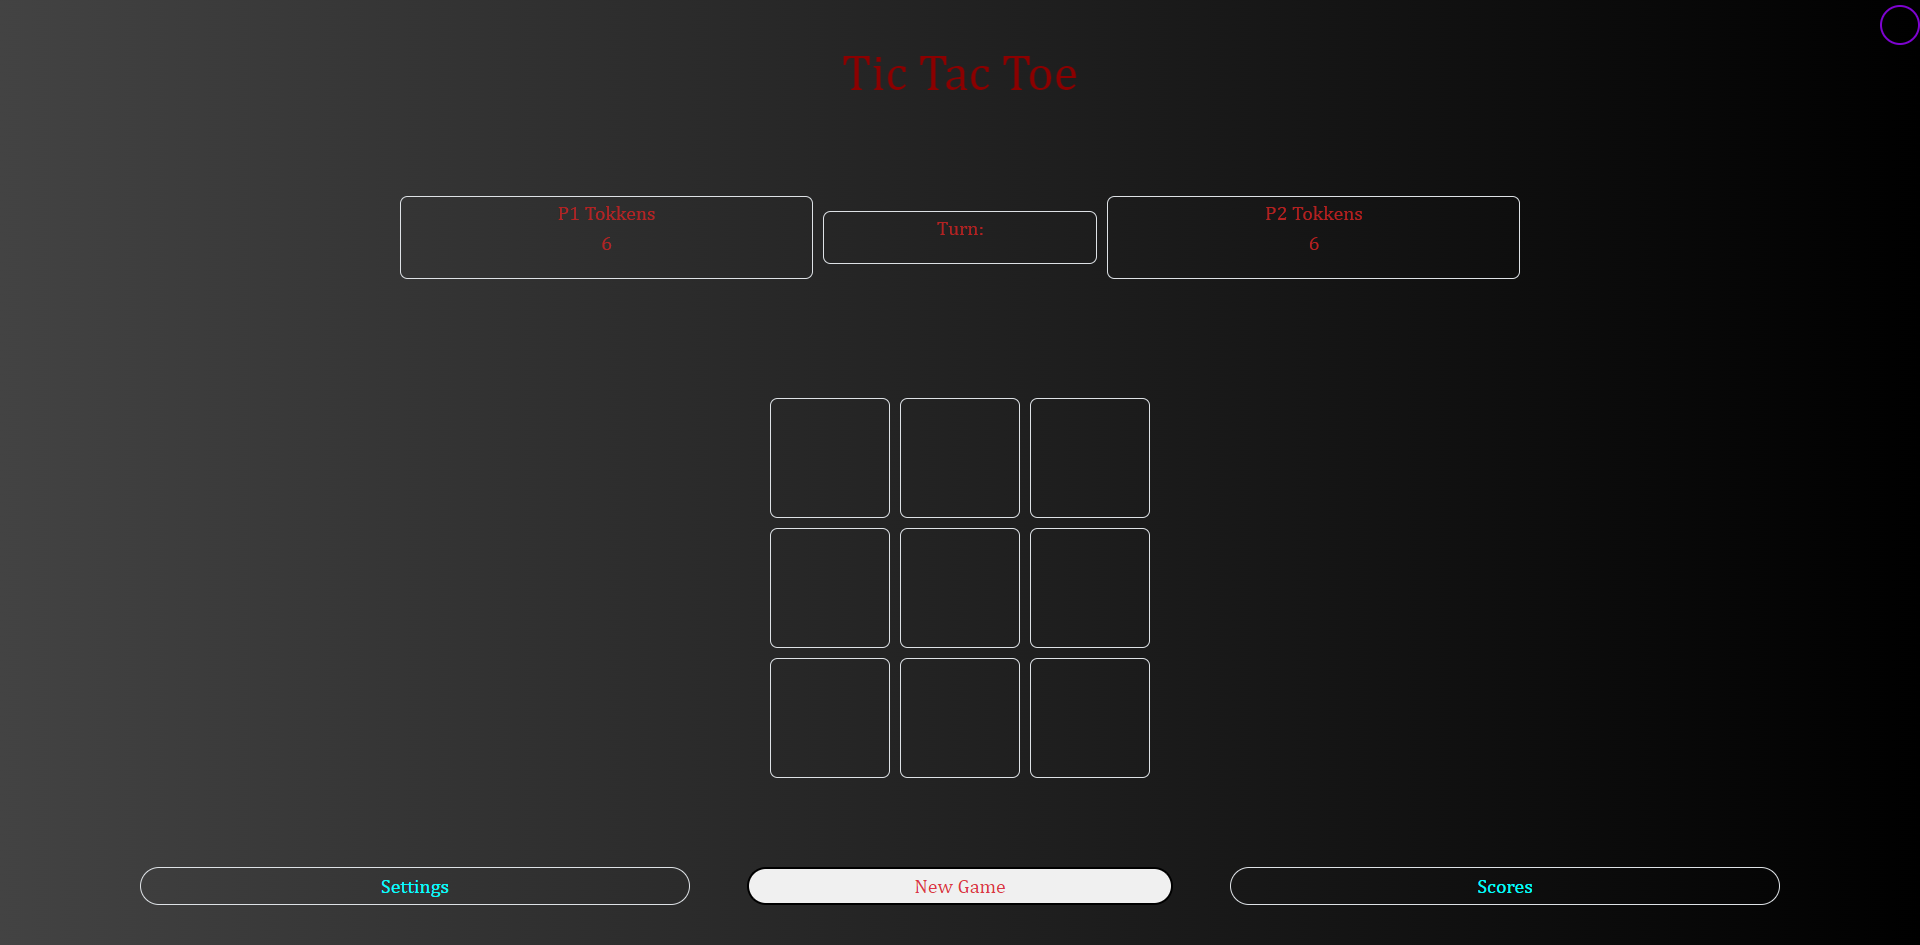
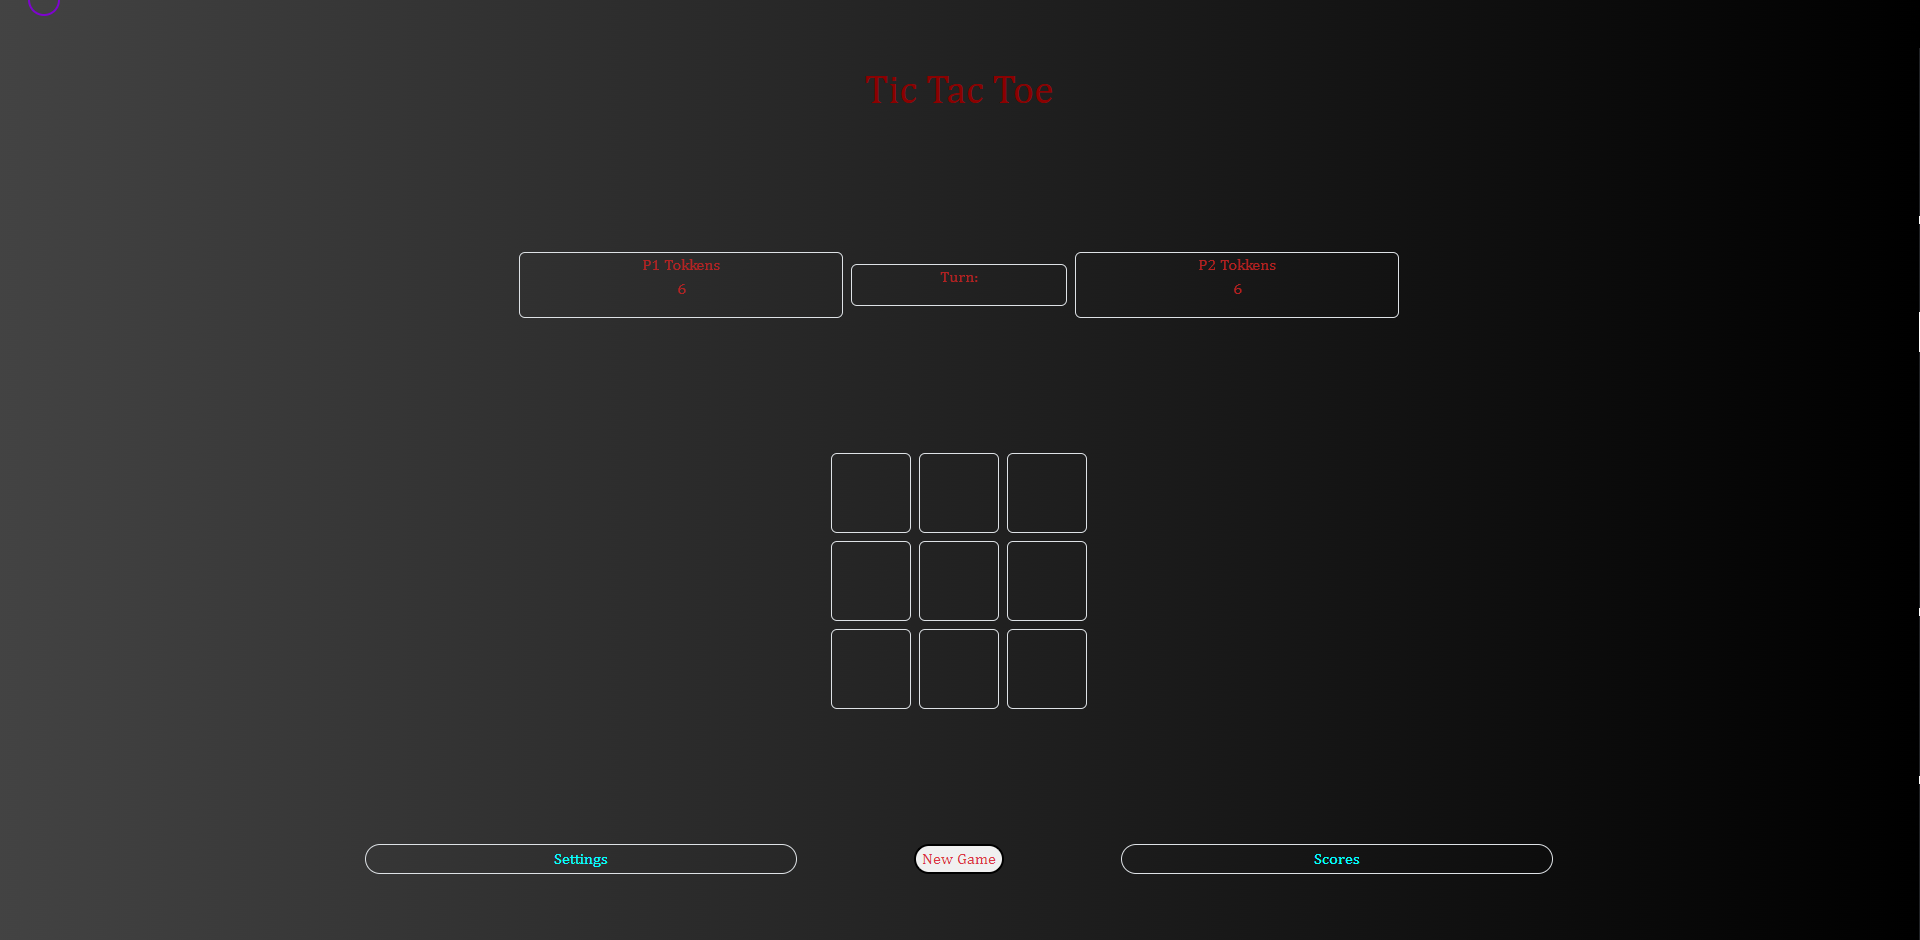
styles changed

diff --git a/pages/Game.html b/pages/Game.html
@@ -18,107 +18,109 @@
 
 <body>
 
-
     <div class="container vh-100">
-        <div class="row vh-100 align-items-center">
-            <!--------------------------------------------------Header---------------------------------------------->
-            <div class="container-fluid ">
+        <div class="container vh-100">
+            <div class="row vh-100 align-items-center">
+                <!--------------------------------------------------Header---------------------------------------------->
+                <div class="container-fluid ">
 
-                <div class="row text-center">
+                    <div class="row text-center">
 
-                    <p id="intro" class=" h1">Tic Tac Toe</p>
-                </div>
-
-            </div>
-
-            <!--------------------------------------------------Main----------------------------------------------->
-
-            <div id="optTopId" class="cointainer-fluid optTop">
-                <div class="row text-center justify-content-center align-items-center">
-                    <div class="col-3 border rounded  ">
-                        <p> P1 Tokkens <br><span id="fichas1">6</span></p>
-                    </div>
-                    <div id="turnT" class="col-5 col-sm-2 border text-center rounded mx-2">
-                        <p><span id="turnTit">Turn:</span><br> <span id="turnPlayer"></span></p>
-                    </div>
-                    <div class="col-3 border rounded">
-                        <p>P2 Tokkens <br><span id="fichas2">6</span></p>
-                    </div>
-
-                </div>
-            </div>
-            <!--------------------------------------------------Game----------------------------------------------->
-            <div id="mouse-circle" class=""></div>
-            <div id="" class="">
-                <div id class="cointainer-fluid text-center  ">
-                    <!--------------------------------------------------------------------- Vector 1 -------------------------------------------------------------------->
-                    <div id="game" class="pt-4">
-                        <div class="row justify-content-center text-light">
-                            <div id="Box1" cellIndex="0"
-                                class="col-3 m-1 border rounded box-all d-flex align-items-center justify-content-center text-light">
-                            </div>
-                            <div id="Box2" cellIndex="1"
-                                class="col-3 m-1 border rounded box-all d-flex align-items-center justify-content-center text-light">
-                            </div>
-                            <div id="Box3" cellIndex="2"
-                                class="col-3 m-1 border rounded box-all d-flex align-items-center justify-content-center text-light">
-                            </div>
-                        </div>
-
-                        <!--------------------------------------------------------------------- Vector 2 -------------------------------------------------------------------->
-                        <div class="row justify-content-center">
-
-                            <div id="Box4" cellIndex="3"
-                                class="col-3 m-1 border rounded box-all d-flex align-items-center justify-content-center text-light">
-                            </div>
-                            <div id="Box5" cellIndex="4"
-                                class="col-3 m-1 border rounded box-all d-flex align-items-center justify-content-center text-light">
-                            </div>
-                            <div id="Box6" cellIndex="5"
-                                class="col-3 m-1 border rounded box-all d-flex align-items-center justify-content-center text-light">
-                            </div>
-                        </div>
-
-                        <!--------------------------------------------------------------------- Vector 3 -------------------------------------------------------------------->
-                        <div class="row justify-content-center">
-                            <div id="Box7" cellIndex="6"
-                                class="col-3 m-1 border rounded box-all d-flex align-items-center justify-content-center text-light">
-                            </div>
-                            <div id="Box8" cellIndex="7"
-                                class="col-3 m-1 border rounded box-all d-flex align-items-center justify-content-center text-light">
-                            </div>
-                            <div id="Box9" cellIndex="8"
-                                class="col-3 m-1 border rounded box-all d-flex align-items-center justify-content-center text-light">
-                            </div>
-                        </div>
+                        <p id="intro" class=" h1">Tic Tac Toe</p>
                     </div>
 
                 </div>
 
+                <!--------------------------------------------------Main----------------------------------------------->
 
-
-
-            </div>
-            <!--------------------------------------------------Opts----------------------------------------------->
-            <div id="optBot" class="">
-                <div class="cointainer-fluid align-items-center optBot">
-                    <div class="row text-center  justify-content-center ">
-                        <div class="col-4 border rounded-pill align-items-center d-flex justify-content-center ms-1">
-                            <a href="../pages/Settings.html"> Settings</a>
+                <div id="optTopId" class="cointainer-fluid optTop">
+                    <div class="row text-center justify-content-center align-items-center">
+                        <div class="col-3 border rounded  ">
+                            <p> P1 Tokkens <br><span id="fichas1">6</span></p>
                         </div>
-                        <div class="col">
-                            <button id="borrar" class="text-danger col-10 rounded-pill " > New Game</button>
+                        <div id="turnT" class="col-5 col-sm-2 border text-center rounded mx-2">
+                            <p><span id="turnTit">Turn:</span><br> <span id="turnPlayer"></span></p>
+                        </div>
+                        <div class="col-3 border rounded">
+                            <p>P2 Tokkens <br><span id="fichas2">6</span></p>
                         </div>
 
-                        <div class="col-4 border rounded-pill align-items-center d-flex justify-content-center me-1">
-                            <a href="../pages/Scores.html"> Scores</a>
+                    </div>
+                </div>
+                <!--------------------------------------------------Game----------------------------------------------->
+                <div id="mouse-circle"></div>
+                <div>
+                    <div id class="cointainer-fluid text-center">
+                        <!--------------------------------------------------------------------- Vector 1 -------------------------------------------------------------------->
+                        <div id="game">
+                            <div class="row justify-content-center text-light">
+                                <div id="Box1" cellIndex="0"
+                                    class="col-3 m-1 border rounded box-all d-flex align-items-center justify-content-center text-light">
+                                </div>
+                                <div id="Box2" cellIndex="1"
+                                    class="col-3 m-1 border rounded box-all d-flex align-items-center justify-content-center text-light">
+                                </div>
+                                <div id="Box3" cellIndex="2"
+                                    class="col-3 m-1 border rounded box-all d-flex align-items-center justify-content-center text-light">
+                                </div>
+                            </div>
+
+                            <!--------------------------------------------------------------------- Vector 2 -------------------------------------------------------------------->
+                            <div class="row justify-content-center">
+
+                                <div id="Box4" cellIndex="3"
+                                    class="col-3 m-1 border rounded box-all d-flex align-items-center justify-content-center text-light">
+                                </div>
+                                <div id="Box5" cellIndex="4"
+                                    class="col-3 m-1 border rounded box-all d-flex align-items-center justify-content-center text-light">
+                                </div>
+                                <div id="Box6" cellIndex="5"
+                                    class="col-3 m-1 border rounded box-all d-flex align-items-center justify-content-center text-light">
+                                </div>
+                            </div>
+
+                            <!--------------------------------------------------------------------- Vector 3 -------------------------------------------------------------------->
+                            <div class="row justify-content-center">
+                                <div id="Box7" cellIndex="6"
+                                    class="col-3 m-1 border rounded box-all d-flex align-items-center justify-content-center text-light">
+                                </div>
+                                <div id="Box8" cellIndex="7"
+                                    class="col-3 m-1 border rounded box-all d-flex align-items-center justify-content-center text-light">
+                                </div>
+                                <div id="Box9" cellIndex="8"
+                                    class="col-3 m-1 border rounded box-all d-flex align-items-center justify-content-center text-light">
+                                </div>
+                            </div>
+                        </div>
+
+                    </div>
+
+
+
+
+                </div>
+                <!--------------------------------------------------Opts----------------------------------------------->
+                <div id="optBot" class="">
+                    <div class="cointainer-fluid align-items-center optBot">
+                        <div class="row text-center  justify-content-center ">
+                            <div
+                                class="col-4 border rounded-pill align-items-center d-flex justify-content-center ms-1">
+                                <a href="../pages/Settings.html"> Settings</a>
+                            </div>
+                            <div class="col-3">
+                                <button id="borrar" class="text-danger rounded-pill "> New Game</button>
+                            </div>
+
+                            <div
+                                class="col-4 border rounded-pill align-items-center d-flex justify-content-center me-1">
+                                <a href="../pages/Scores.html"> Scores</a>
+                            </div>
                         </div>
                     </div>
                 </div>
-            </div>
 
+            </div>
         </div>
-
 
     </div>
     <script src="../scripts/mouse.js"></script>

diff --git a/pages/Settings.html b/pages/Settings.html
@@ -22,7 +22,7 @@
 
     <nav id="header" class="navbar navbar-expand-lg navbar-light bg-light fixed-top">
         <div class="container-fluid">
-            <a class="navbar-brand" href="../pages/Game.html">X/O</a>
+            <a id="xo" class="navbar-brand" href="../pages/Game.html">X/O</a>
             <button class="navbar-toggler" type="button" data-bs-toggle="collapse" data-bs-target="#navbarNavAltMarkup"
                 aria-controls="navbarNavAltMarkup" aria-expanded="false" aria-label="Toggle navigation">
                 <span class="navbar-toggler-icon"></span>
@@ -48,7 +48,7 @@
             <div class="j1name text-danger">Player1's name: <span id="nameJ1"></span></div>
             <div class="input-group rounded justify-content-center">
                 <input type="text" id="insertName1">
-                <div class="">
+                <div class="row">
                     <select class="form-select" id="playerValue1" aria-label=" Example select with button addon">
                         <option selected value="1">Player</option>
                         <option value="2">Cpu</option>

diff --git a/scripts/storage.js b/scripts/storage.js
@@ -3,12 +3,14 @@ let insertJ2 = document.getElementById('insertName2');
 const submit = document.getElementById('Submit')
 let playerValue1 = document.getElementById('playerValue1')
 let playerValue2 = document.getElementById('playerValue2')
-
+let xo = document.getElementById('xo')
+xo.classList.remove('xo')
 
 
 
 
 submit.addEventListener('click', () => {
+    
     const user1 = {
         name: insertJ1.value,
         value: playerValue1.value
@@ -34,7 +36,9 @@ submit.addEventListener('click', () => {
 
     insertJ1.value = ""
     insertJ2.value = ""
-
+    xo.classList.add('xo')
+    
+   
 })
 nameJ1.innerHTML = JSON.parse(sessionStorage.getItem('player1')).name
 nameJ2.innerHTML = JSON.parse(sessionStorage.getItem('player2')).name

diff --git a/pages/Scores.html b/pages/Scores.html
@@ -19,7 +19,7 @@
 <body>
     <nav id="header" class="navbar navbar-expand-lg navbar-light bg-light fixed-top">
         <div class="container-fluid">
-            <a class="navbar-brand" href="../pages/Game.html">X/O</a>
+            <a id="xo" class="navbar-brand" href="../pages/Game.html">X/O</a>
             <button class="navbar-toggler" type="button" data-bs-toggle="collapse" data-bs-target="#navbarNavAltMarkup"
                 aria-controls="navbarNavAltMarkup" aria-expanded="false" aria-label="Toggle navigation">
                 <span class="navbar-toggler-icon"></span>

diff --git a/scripts/scores.js b/scripts/scores.js
@@ -1,7 +1,11 @@
 let lastWinner = document.getElementById('lastWinner');
 lastWinner.innerHTML = sessionStorage.getItem('winner');
 let scores = document.getElementById('scores')
+let xo = document.getElementById('xo')
+
 
 scores.innerHTML = `${JSON.parse(sessionStorage.getItem('player1')).name}
  vs ${JSON.parse(sessionStorage.getItem('player2')).name}
-  result: <br/><br/>*-${sessionStorage.getItem('winner')} is the WINNER!-*`
+  result: <br/><br/>*${sessionStorage.getItem('winner')} is the WINNER!*`
+
+xo.classList.add('xo')

diff --git a/css/styles.css b/css/styles.css
@@ -30,8 +30,12 @@ body {
 
 .box-all {
     color: black;
-    height: 6em;
-    width: 6em;
+    height: 5em;
+    width: 5em;
+}
+
+.xo{
+    color: red !important;
 }
 
 .WinLine {
